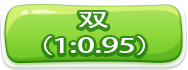
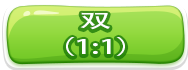
bug fix

diff --git a/api/services/$stateMachine.js b/api/services/$stateMachine.js
@@ -73,6 +73,9 @@ module.exports = {
                     $adminService.markAsLoggedIn({
                       username: username
                     }, function() {
+                      // 发送验证通过
+                      socket.emit("verified");
+
                       self._handleAdminRegistry(socket);
                     });
                   }else if(data.type === "normal") {
@@ -125,6 +128,9 @@ module.exports = {
           if(self.getState() === "offline" || self.getState() === "online" || (self.getState() === "onWait" && self.getMode() === "manual")) {
             socket.emit("updateStatus", { state: self.getState() });
           }
+
+          // 向管理员广播游戏模式
+          self.io.to("admin").emit("updateMode", { mode: self.getMode() });
         });
 
         // // 第一次连接，且状态为 online，或状态为 onWait 且模式为 manual，则广播状态
@@ -162,8 +168,8 @@ module.exports = {
             // 向管理员广播游戏模式的改变
             self.io.to("admin").emit("updateMode", { mode: "auto" });
 
-            // 再次开启
-            self.turnOn();
+            // // 再次开启
+            // self.turnOn();
           }
         });
 
@@ -173,10 +179,10 @@ module.exports = {
           if((self.getState() === "online" || self.getState() === "preparingCountDown") && self.getMode() === "auto") {
             $logger.log("切换为手动模式");
 
+            self.setMode("manual");
+
             // 向管理员广播游戏模式的改变
             self.io.to("admin").emit("updateMode", { mode: "manual" });
-
-            self.setMode("manual");
           }
         });
 
@@ -534,21 +540,21 @@ module.exports = {
         // 修改状态
         self.setState("offline");
 
-        // 若模式为手动模式
-        if(self.getMode() === "manual") {
-          // 将等待室的玩家踢出，加入大厅
-          var sockets = self.findSocketsByRoom("wait");
-          sockets.forEach(function(socket) {
-            socket.leave("wait");
-            socket.join("hall");
-          });
-
-          // 向大厅的玩家广播游戏下线
-          self.io.to("hall").emit("updateStatus", { state: "offline" });
-
-          // 向管理员广播游戏下线
-          self.io.to("admin").emit("updateStatus", { state: "offline" });
-        }
+        // // 若模式为手动模式
+        // if(self.getMode() === "manual") {
+        //   // 将等待室的玩家踢出，加入大厅
+        //   var sockets = self.findSocketsByRoom("wait");
+        //   sockets.forEach(function(socket) {
+        //     socket.leave("wait");
+        //     socket.join("hall");
+        //   });
+        //
+        //   // 向大厅的玩家广播游戏下线
+        //   self.io.to("hall").emit("updateStatus", { state: "offline" });
+        //
+        //   // 向管理员广播游戏下线
+        //   self.io.to("admin").emit("updateStatus", { state: "offline" });
+        // }
       },
       /**
        * @public
@@ -855,13 +861,13 @@ module.exports = {
                 // 奖励 1:0.95
                 $userService.topUpCoin({
                   username: socket.player.username,
-                  amount: stake.coin * 0.95,
+                  amount: stake.coin,
                   shouldRecord: false
                 }, function() {
                   // 保存游戏记录
                   $gameService.saveGameRecord({
                     stake: "s",
-                    reward: stake.coin * 0.95,
+                    reward: stake.coin,
                     gameRoundId: gameRound.id,
                     username: socket.player.username
                   }, function() {

diff --git a/view/manager/index.html b/view/manager/index.html
@@ -314,8 +314,11 @@
                   console.log("接收到请求");
                 });
 
-                // 告诉服务器页面加载完成
-                socket.emit("fullyLoaded");
+                // 服务器告知验证通过
+                socket.on("verified", function() {
+                  // 告诉服务器页面加载完成
+                  socket.emit("fullyLoaded");
+                });
 
                 // 监听状态改变
                 socket.on("updateStatus", function(data) {

diff --git a/api/websocket/websocket.js b/api/websocket/websocket.js
@@ -1,7 +1,12 @@
-module.exports = function($userService, $stateMachine, io) {
+module.exports = function($userService, $adminService, $stateMachine, io) {
   // 重启后，把所有用户的登录状态修改为未登录状态
   $userService.resetAllUsersState(function() {
     // initialize game service
-    $stateMachine.init(io);
+    // 重置管理员状态
+    $adminService.logout({
+      username: "admin"
+    }, function() {
+      $stateMachine.init(io);
+    });
   });
 };

diff --git a/api/services/$adminService.js b/api/services/$adminService.js
@@ -132,8 +132,8 @@ module.exports = {
             }
 
             // 修改管理员状态
-            user.isOnline = false;
-            user.save(function(err) {
+            admin.isOnline = false;
+            admin.save(function(err) {
               if(err) {
                 throw err;
               }
